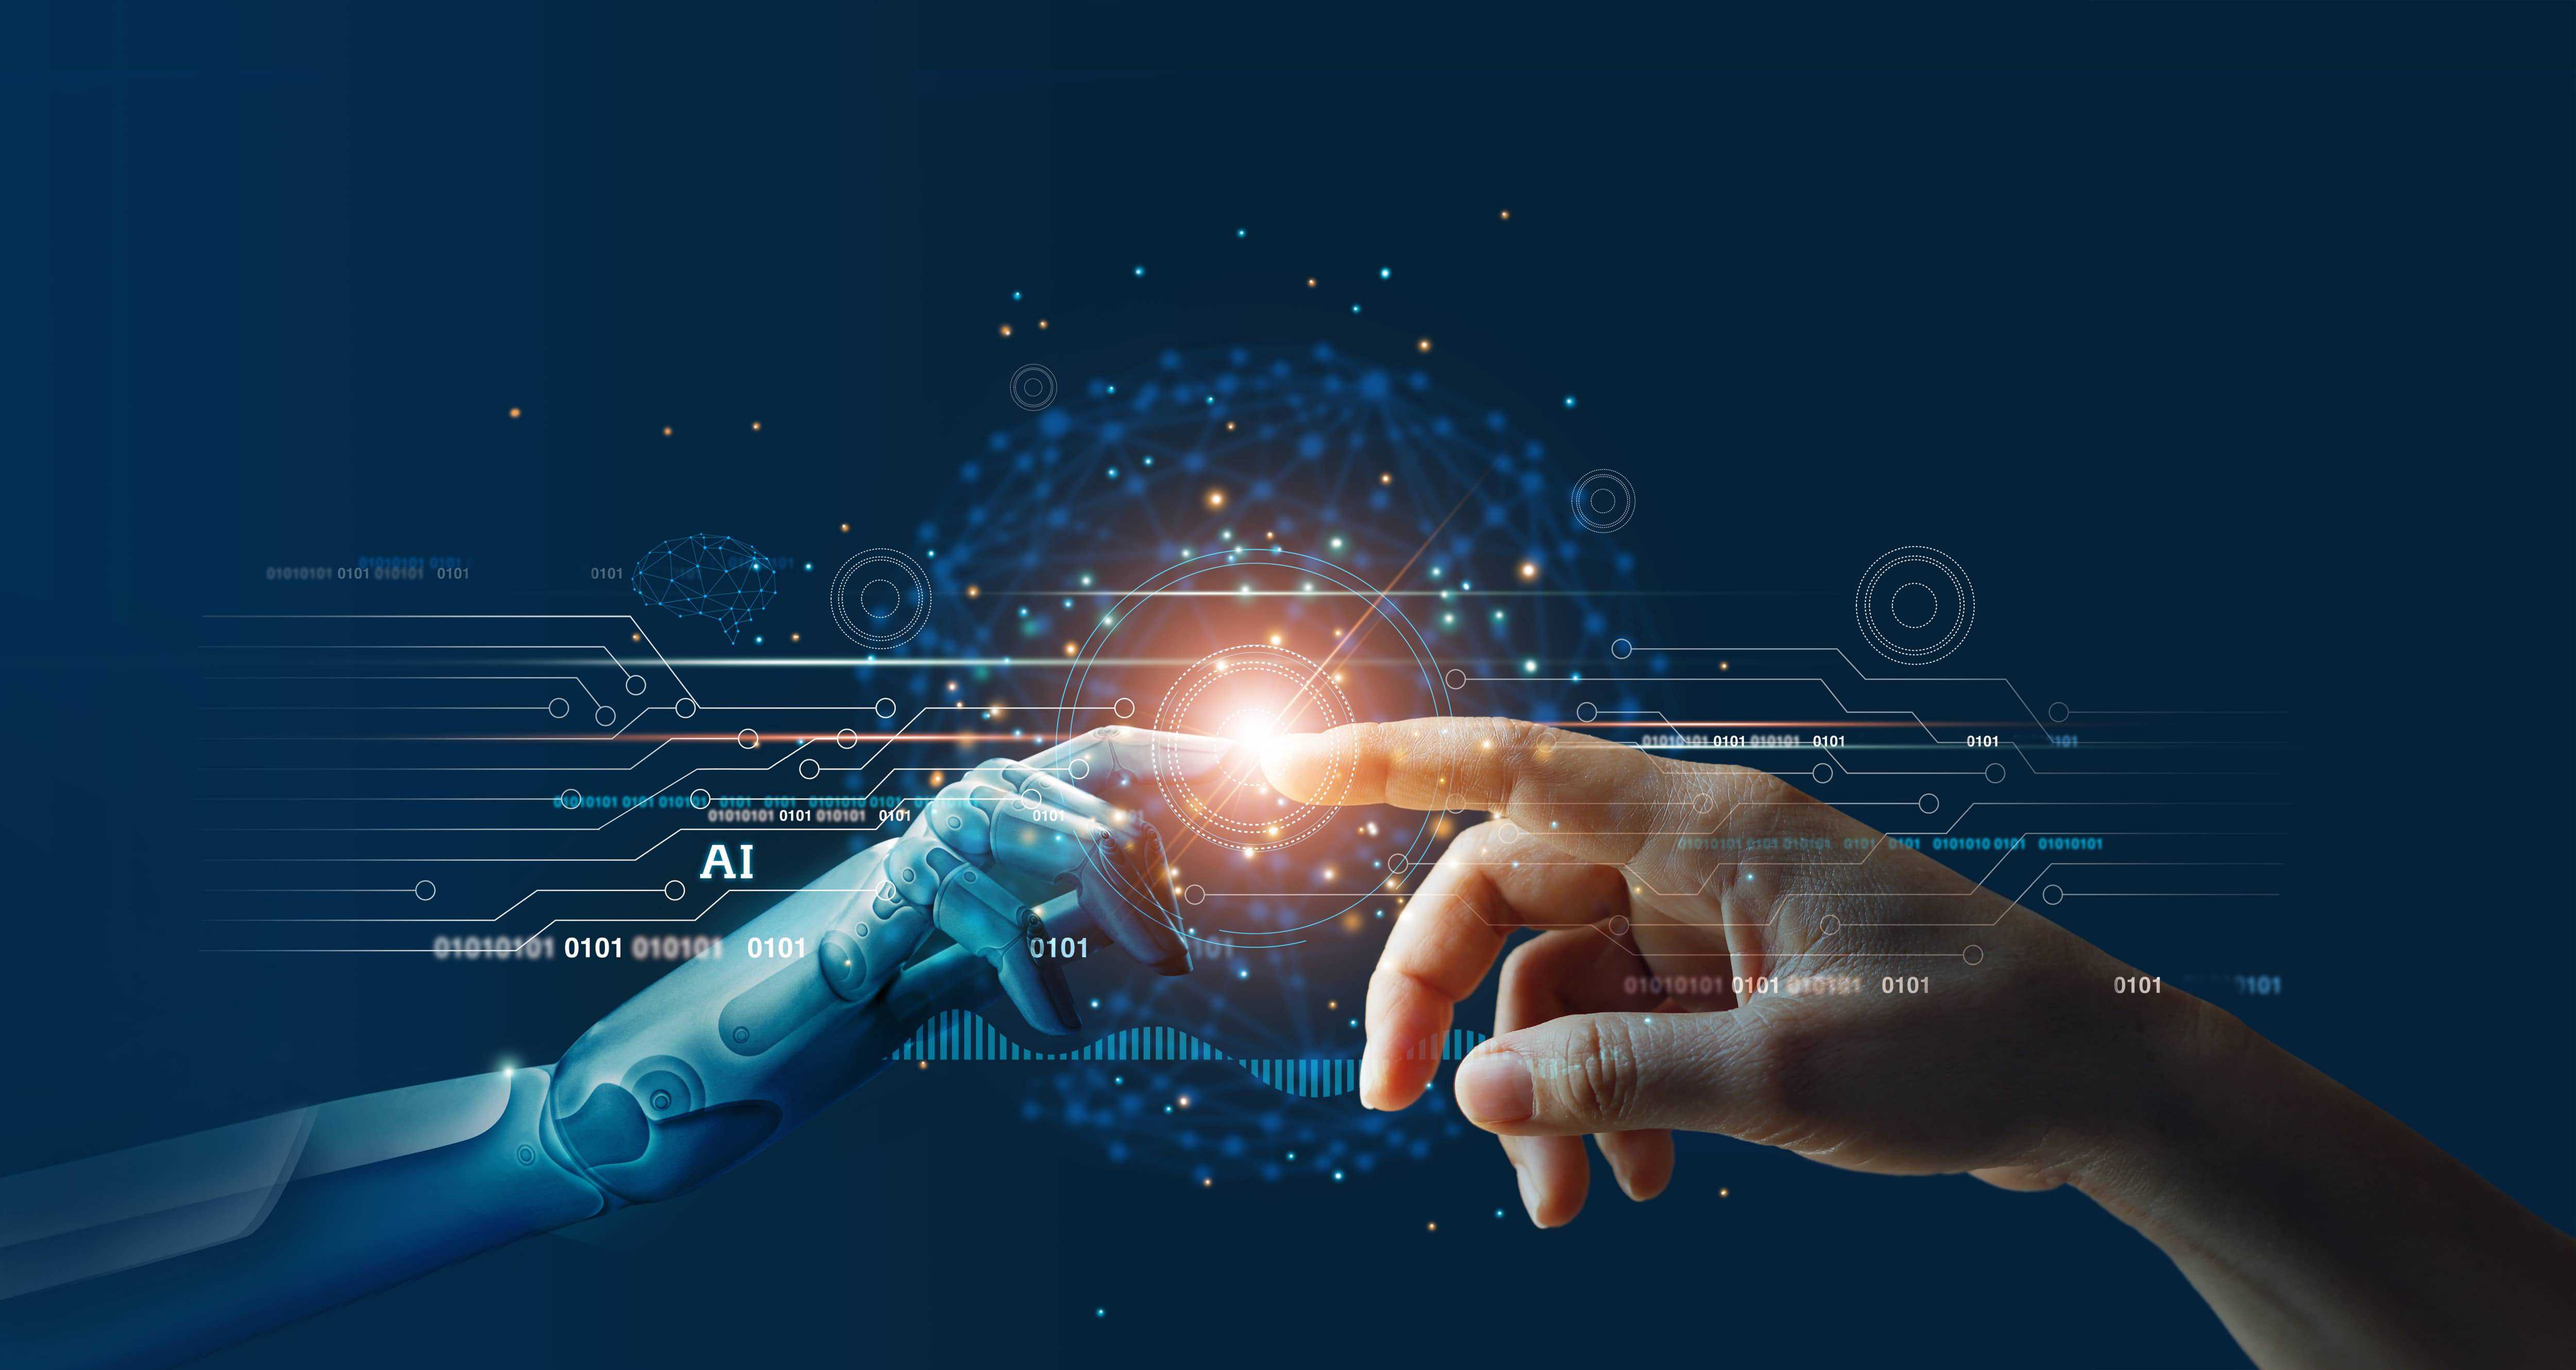
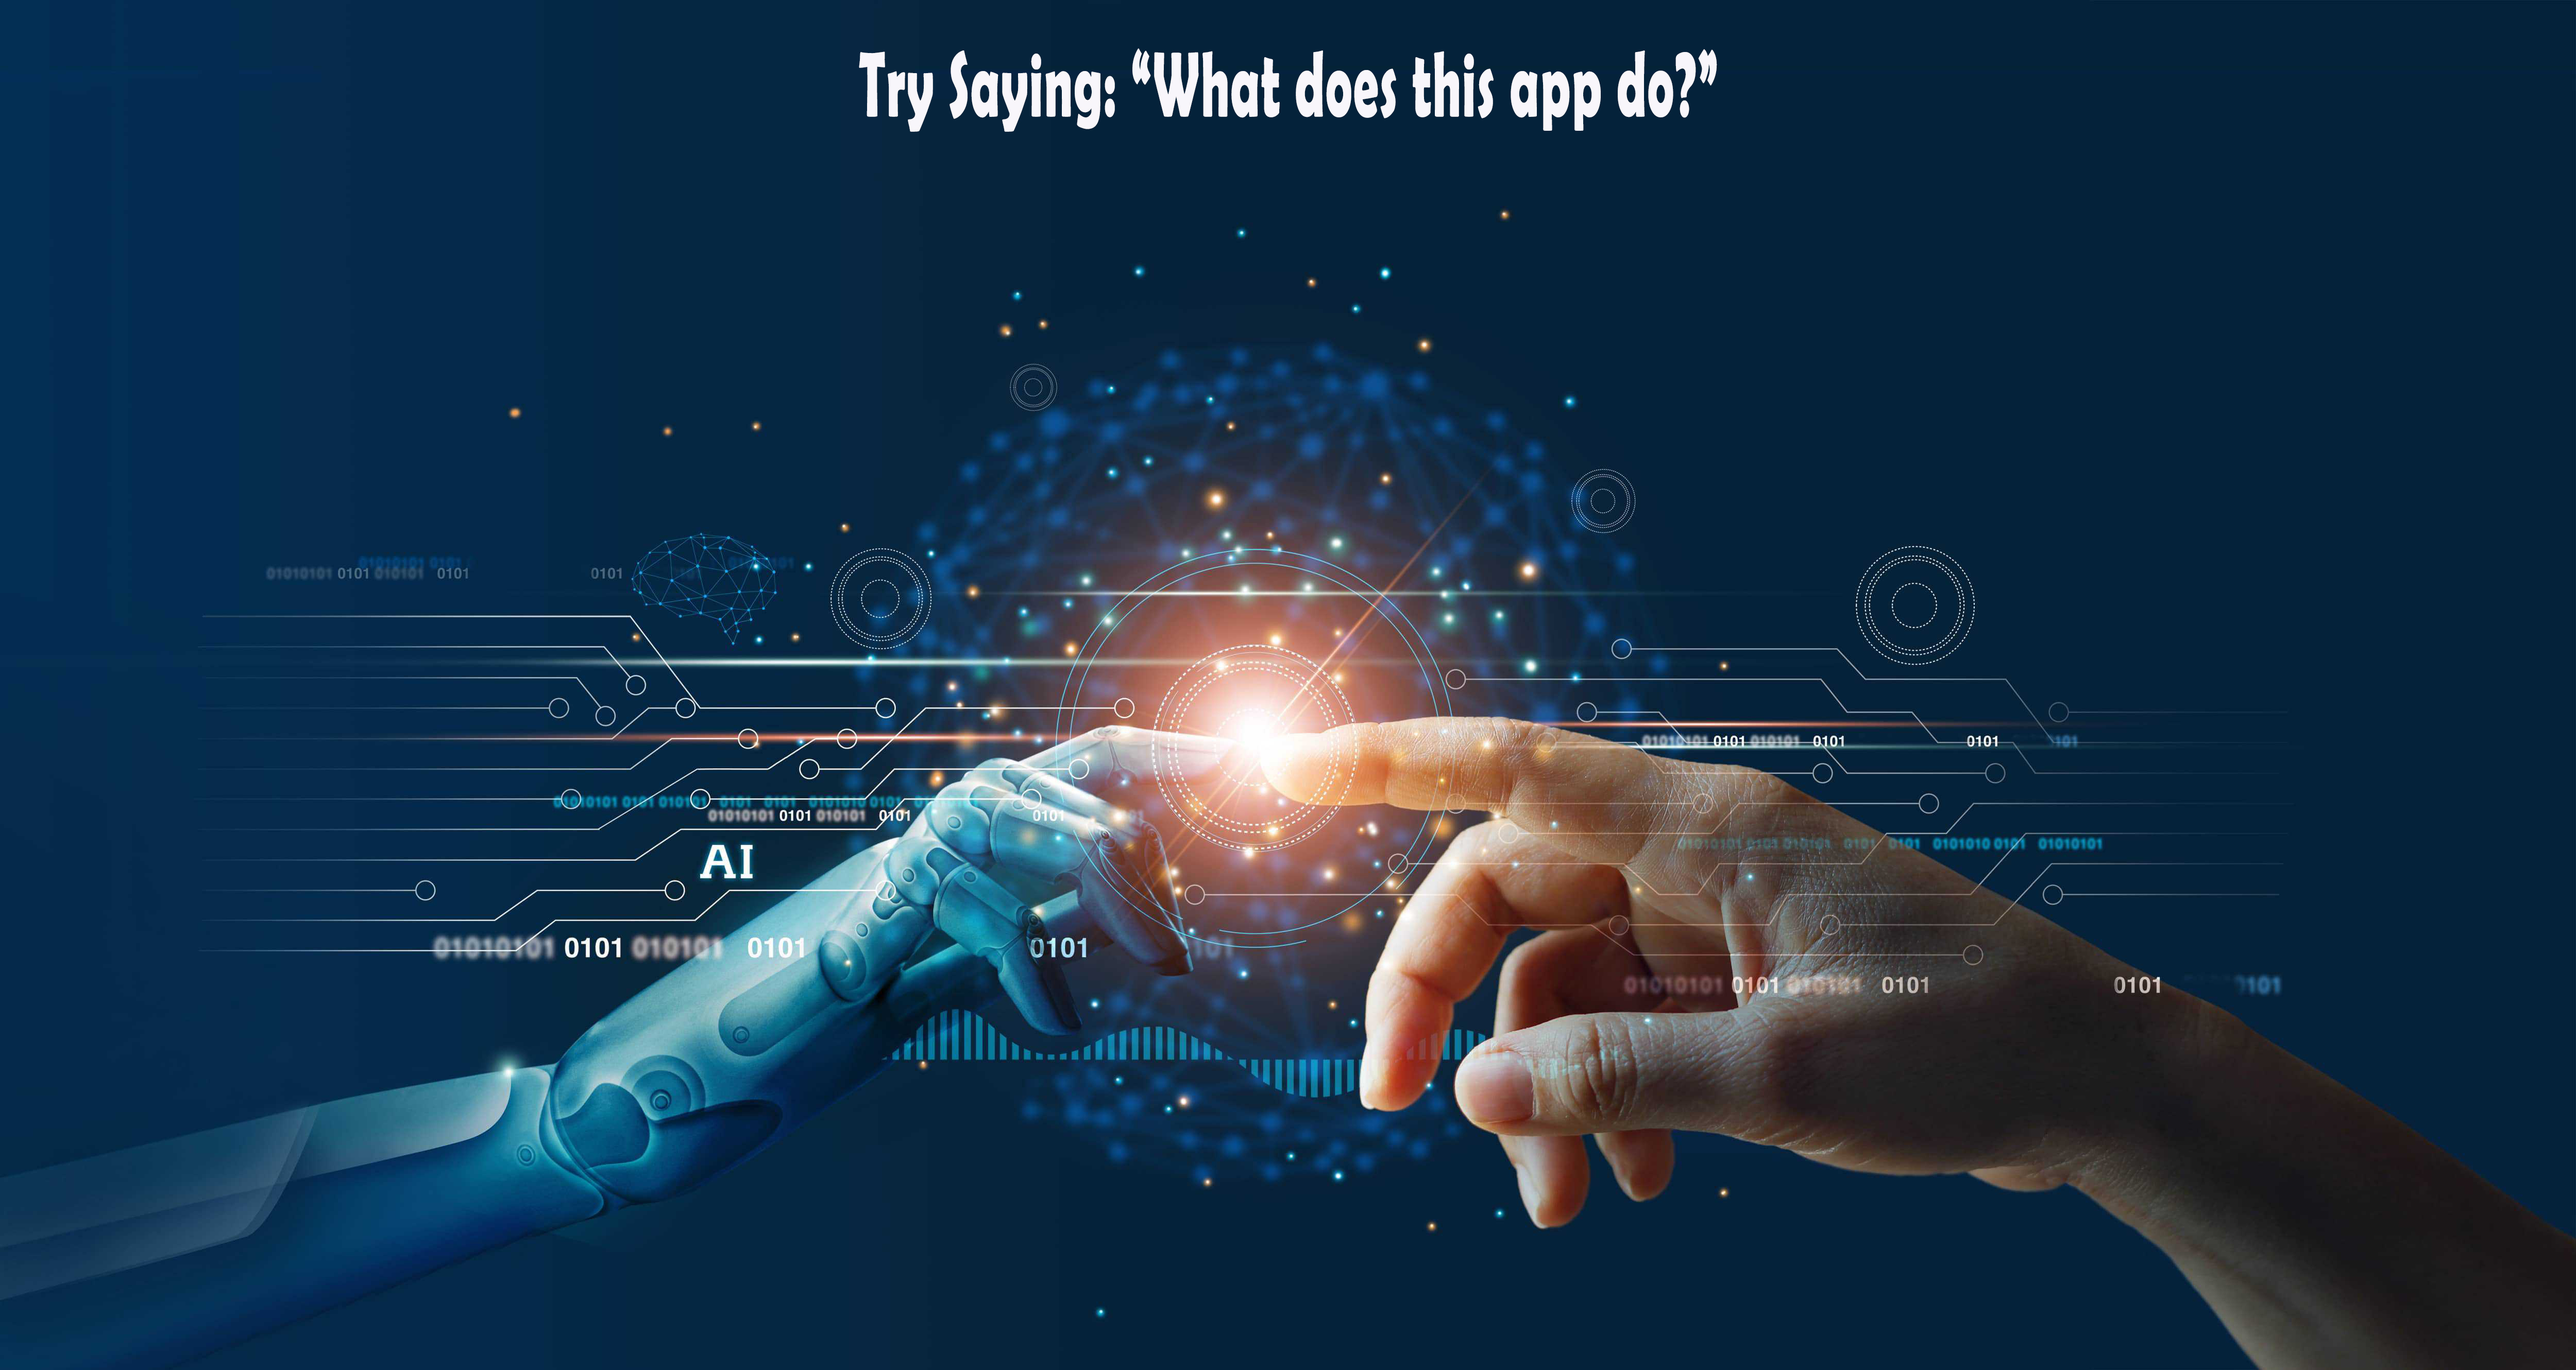
final fixes

Changed region(s): [[0.312, 0.0312, 0.6864, 0.0936]]

diff --git a/src/components/NewsCards/NewsCards.js b/src/components/NewsCards/NewsCards.js
@@ -5,7 +5,7 @@ import NewsCard from './NewsCard/NewsCard';
 import useStyles from './styles.js';
 
 const infoCards = [
-  { color: '#cc5500', title: 'Latest News', text: 'Give me the latest news' },
+  { color: '#cc5500', title: 'Latest News', text: 'Give me the latest news  What does this app do?' },
   { color: '#3c1361', title: 'News by Categories', info: 'Business, Entertainment, General, Health, Science, Sports, Technology', text: 'Give me the latest Technology news' },
   { color: '#b87333', title: 'News by Terms', info: 'George Clooney, PlayStation 5, Smartphones, Donald Trump...', text: 'What\'s up with Donald Trump' },
   { color: '#00308f', title: 'News by Sources', info: 'CNN, Wired, BBC News, Time, IGN, Buzzfeed, ABC News...', text: 'Give me the news from CNN' },
